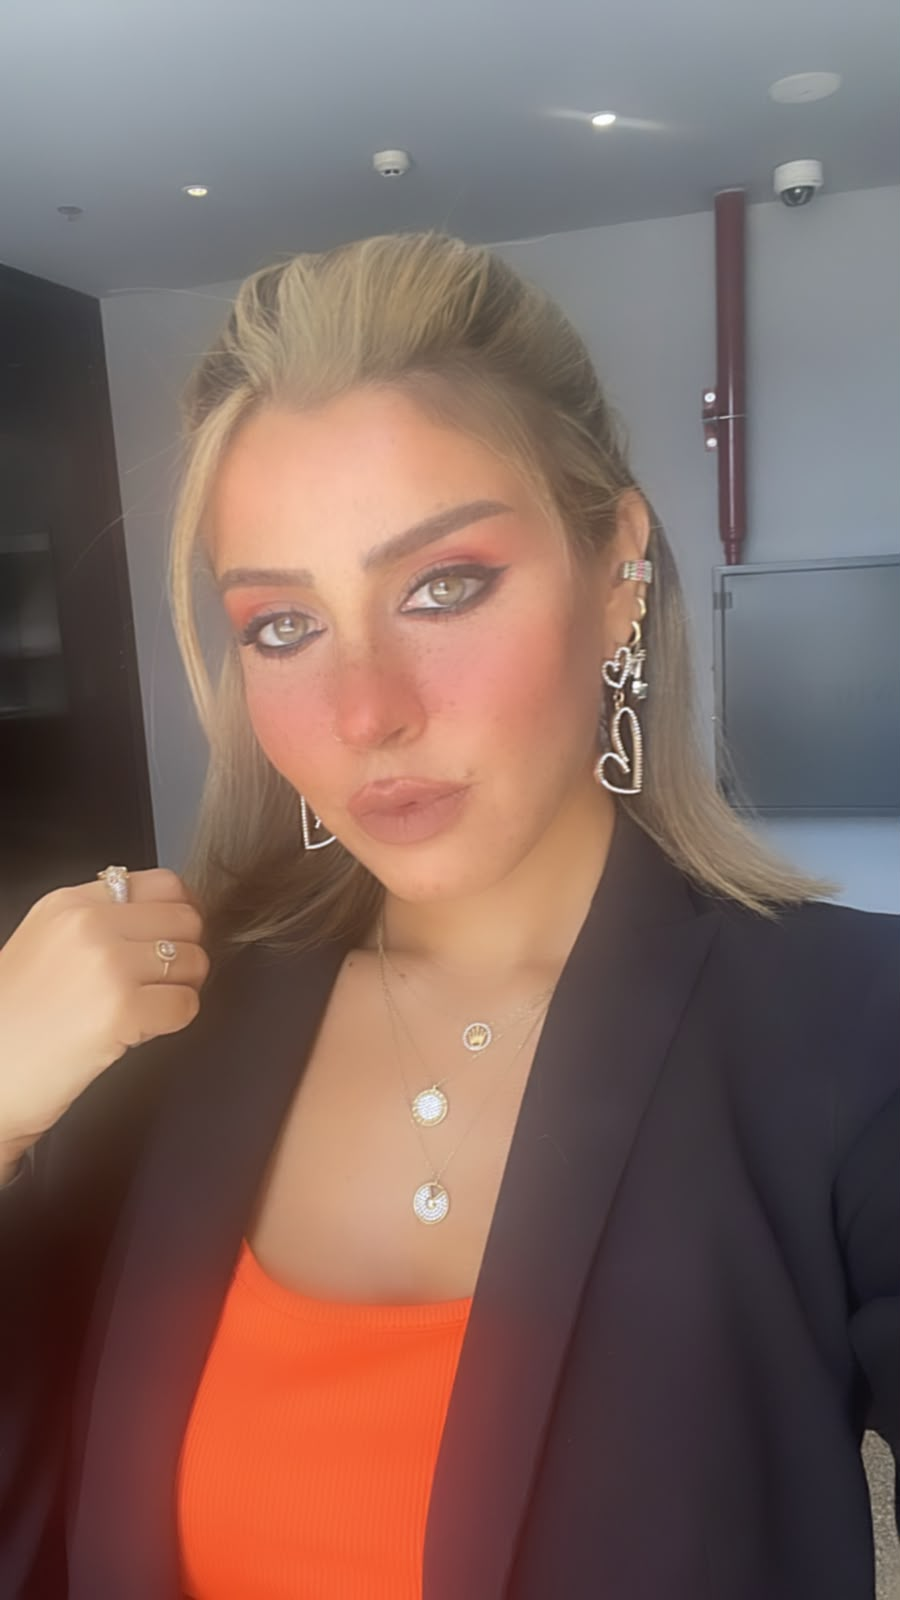
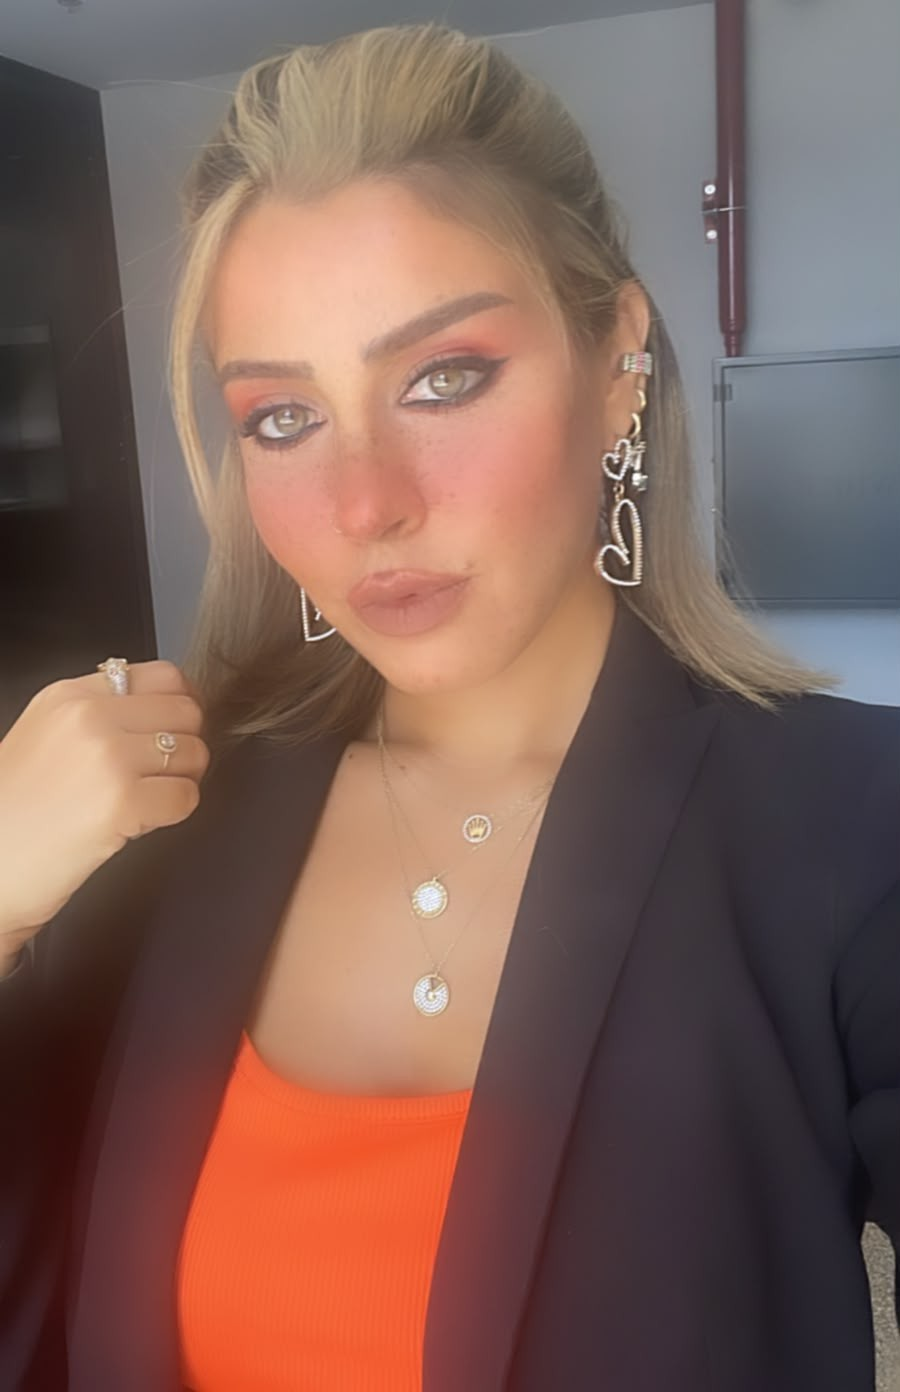
Update role text

diff --git a/lib/translations.ts b/lib/translations.ts
@@ -5,7 +5,7 @@ export const translations = {
     header: {
       locationTag: "PORT GHALIB | 25°32'N 34°38'E",
       exclusivityTag: "| ARCHITECTURAL EXCLUSIVITY",
-      role: "Larimar Sales Business Relations",
+      role: "Sales Business Relations",
       navOverview: "Overview",
       navProjects: "Projects",
       navOffices: "Offices",
@@ -140,7 +140,7 @@ export const translations = {
     header: {
       locationTag: "PORT GHALIB | 25°32'N 34°38'E",
       exclusivityTag: "| ARCHITEKTONISCHE EXKLUSIVITÄT",
-      role: "Larimar Sales Business Relations",
+      role: "Sales Business Relations",
       navOverview: "Übersicht",
       navProjects: "Projekte",
       navOffices: "Büros",
